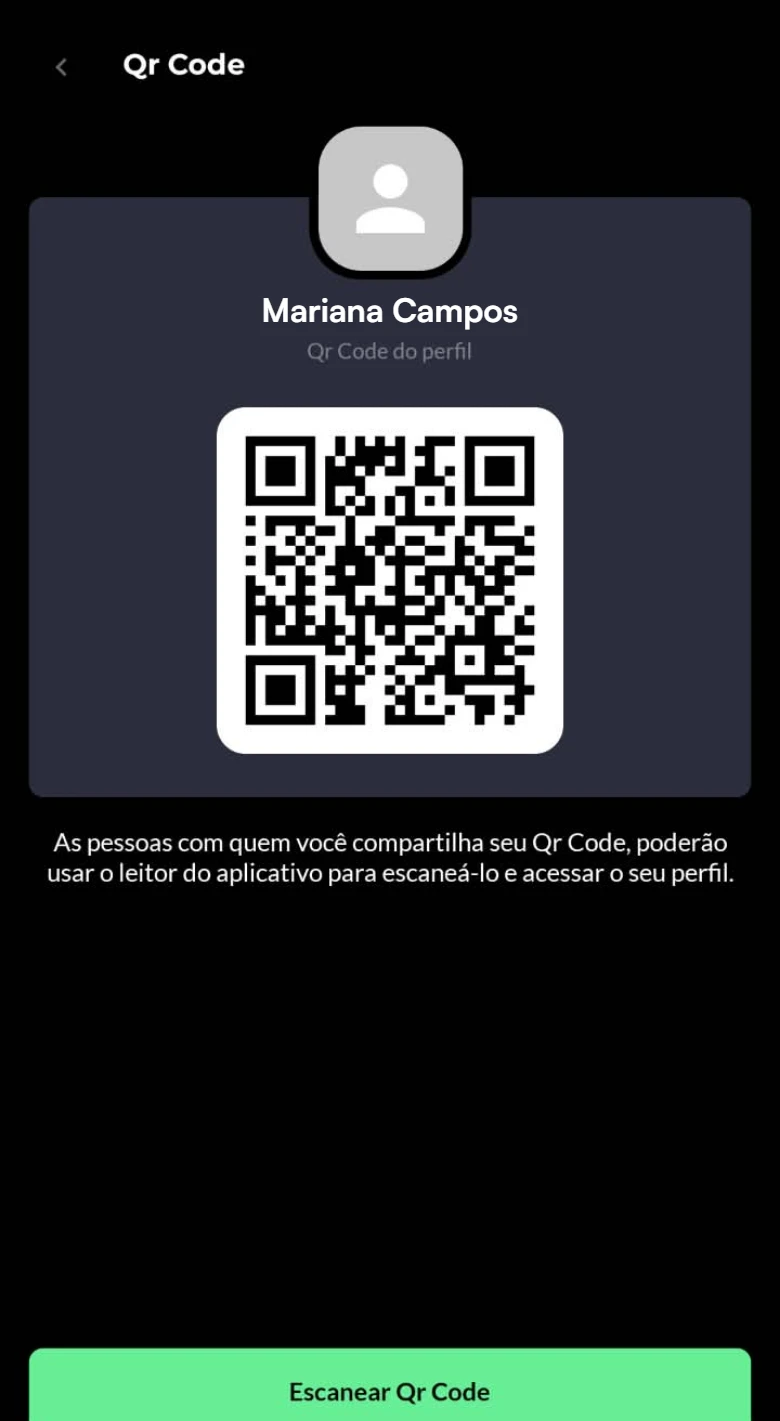
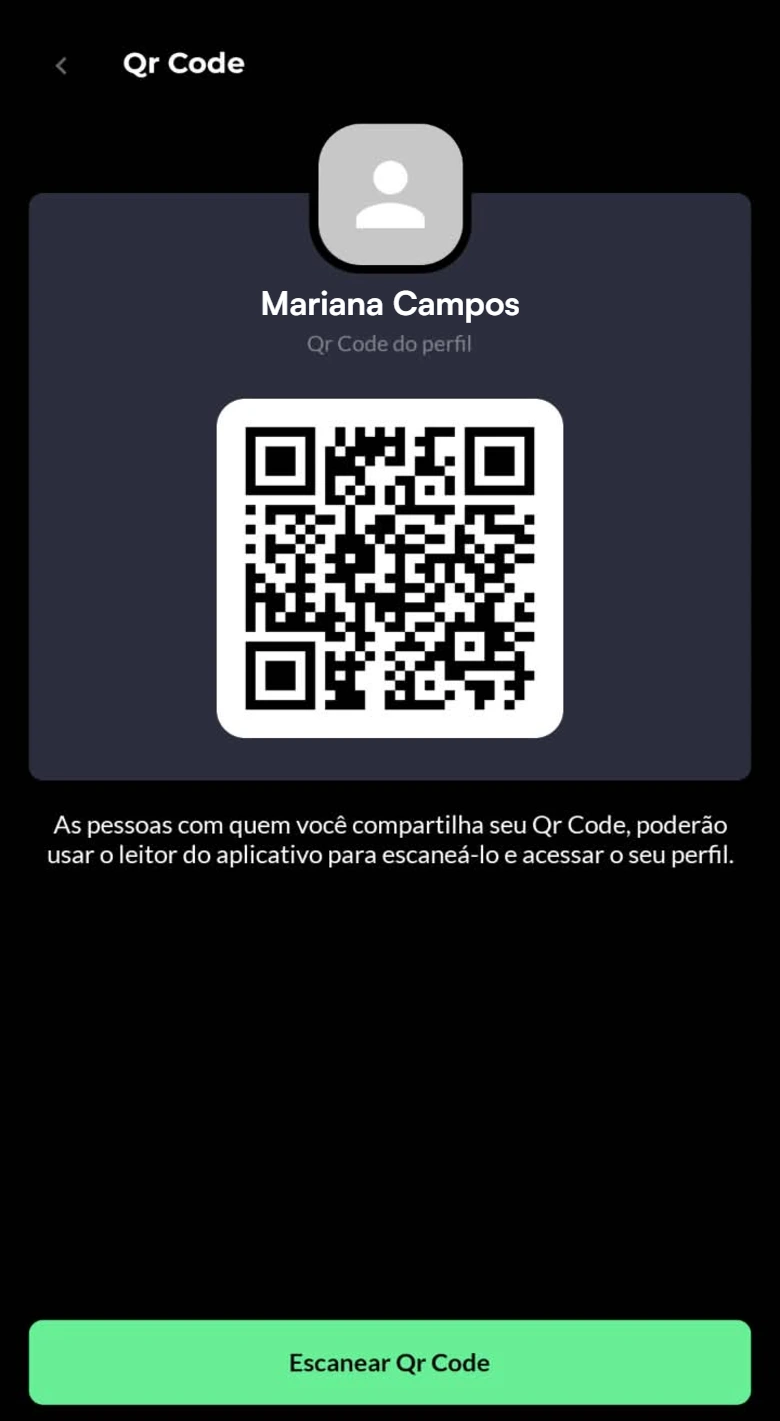
fix: stop cutting the scan button off the bottom of the frame
O recorte das capturas parava em y=1364 do fonte, e o botão "Escanear Qr
Code" vai até 1376. Faltavam 11px dele, então a foto terminava no meio do
botão e o anel ficava metade em cima, metade no vazio.

Medido no fonte: cabeçalho começa em 103, botão de 1298 a 1376, barra de
abas do app só em 1436. A janela passa a ser 52 → 1392: pega o botão
inteiro com folga e continua parando antes da barra de abas, que o tour
desenha por conta própria.

Vale para as duas telas que têm esse botão — QR Code e leitor. O hotspot
de cada uma foi para 95,9% / 5,8%, que é onde o botão está de verdade
agora.

A troca do nome real por "Mariana Campos" foi refeita sobre o recorte
novo. Reconverter a partir do fonte apaga edições feitas no webp — foi
assim que a correção do mapa se perdeu antes.

diff --git a/app.js b/app.js
@@ -241,7 +241,7 @@ const TELAS = {
     serve: 'Sua credencial e seu cartão de visita: quem escaneia seu código vê o seu perfil.',
     alvos: [
       { id: 'meucodigo', x: 50, y: 40, w: 70, h: 26, brinde: 'Este é o seu código. Apresente quando pedirem.' },
-      { id: 'escanear', x: 49.8, y: 95.5, w: 90, h: 5, vai: 'scanner', modo: 'push', missao: 'm4',
+      { id: 'escanear', x: 49.8, y: 95.9, w: 90, h: 5.8, vai: 'scanner', modo: 'push', missao: 'm4',
         dica: 'Toque em <b>Escanear Qr Code</b> para adicionar uma pessoa à sua rede.' },
     ],
   },
@@ -249,7 +249,7 @@ const TELAS = {
     img: 'scanner', aba: 'qr', volta: 'qrcode', rotulo: 'Leitor de QR',
     serve: 'Aponte para o QR Code de outra pessoa: o contato entra direto na sua rede.',
     alvos: [
-      { id: 'meuqr', x: 49.8, y: 95.5, w: 90, h: 5, volta: true, dica: 'Toque em <b>Meu Qr Code</b> para voltar.' },
+      { id: 'meuqr', x: 49.8, y: 95.9, w: 90, h: 5.8, volta: true, dica: 'Toque em <b>Meu Qr Code</b> para voltar.' },
     ],
   },
   'menu': {
